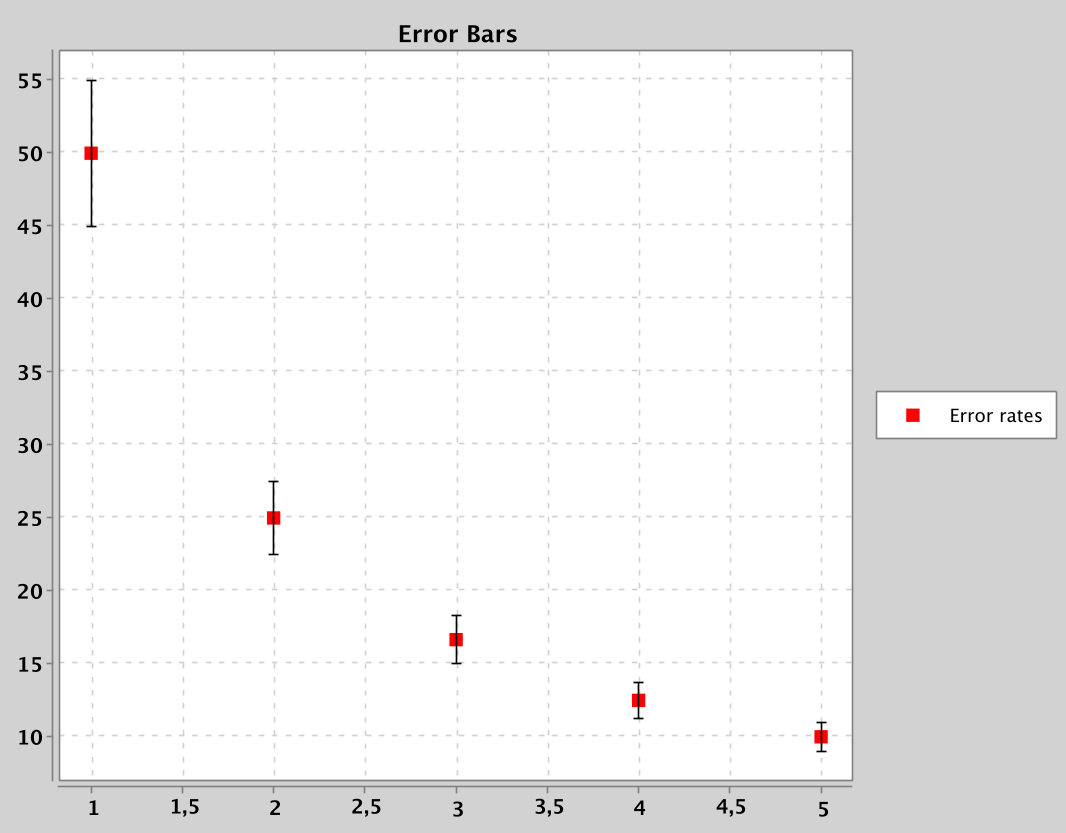
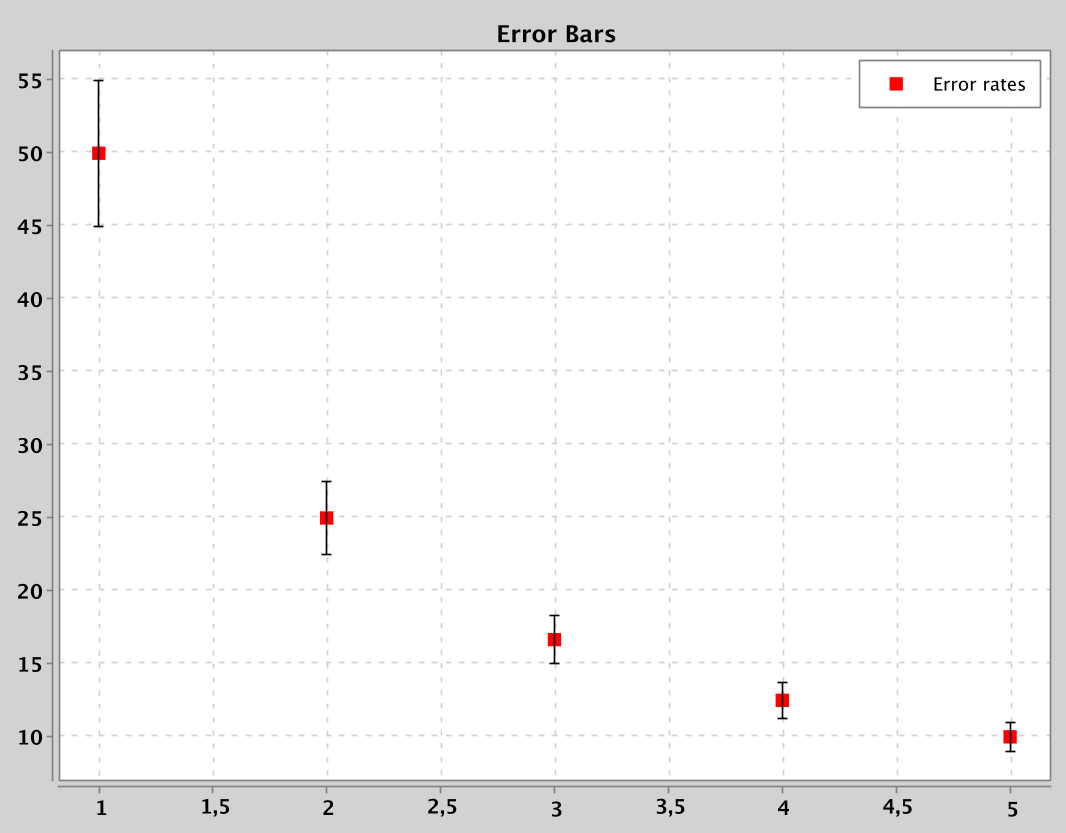
fixed a problem with legend styling in the 'xchart' extension module

diff --git a/ChangeLog.md b/ChangeLog.md
@@ -38,6 +38,7 @@ and simplify code. See the Venice *JMH* benchmark *ReflectionBenchmark.java*
   function. E.g.:  `(transduce (map :ip) conj [{:ip 6}])`
 - `filter` in its transducing version to accept a map, a keyword, or a set as filter 
   predicate. E.g.:  `(transduce (filter #{1 3 5 7 9}) conj [1 2 3 4 5 6])`
+- a problem with legend styling in the 'xchart' extension module
 
 ### Deprecated
 
